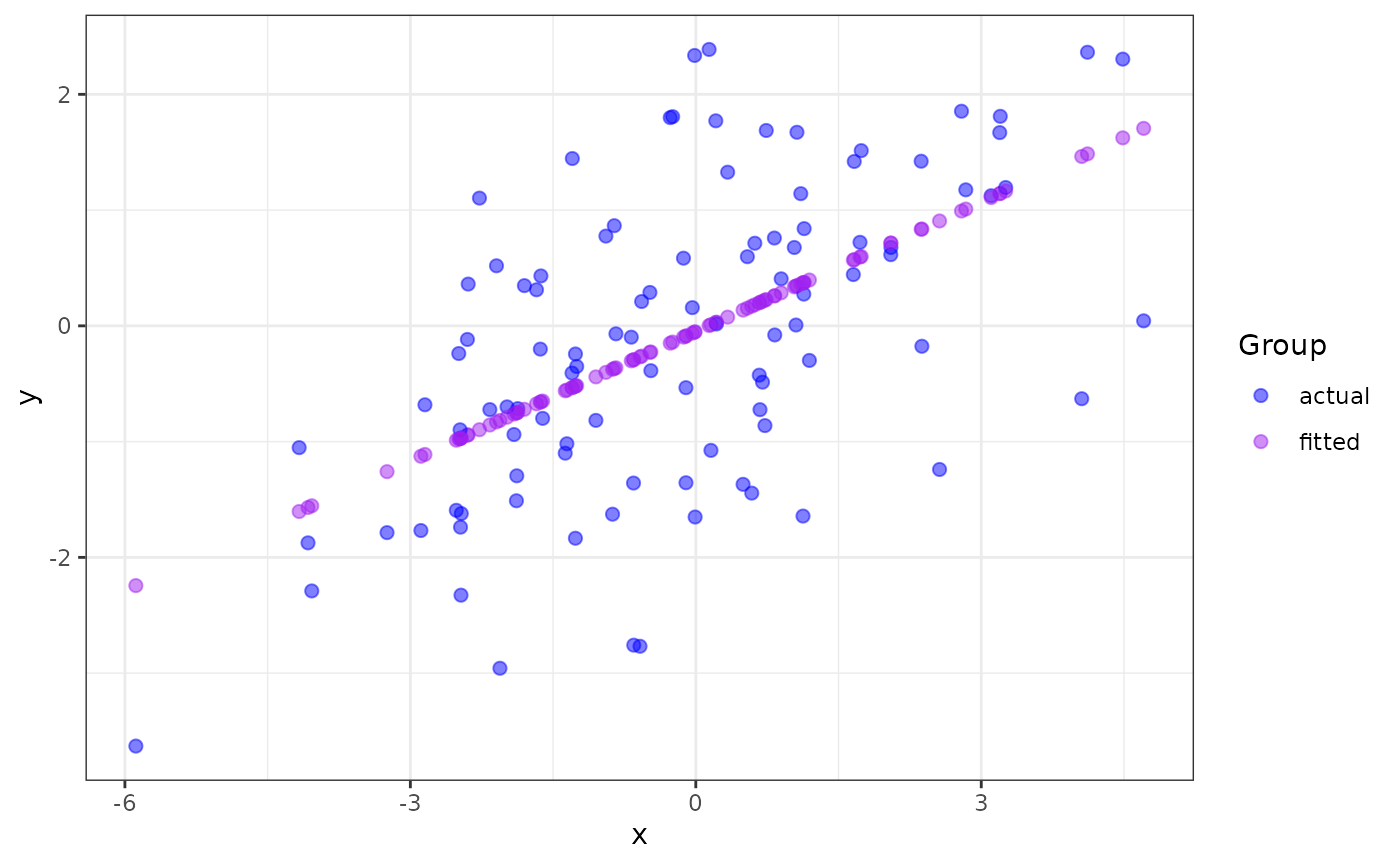
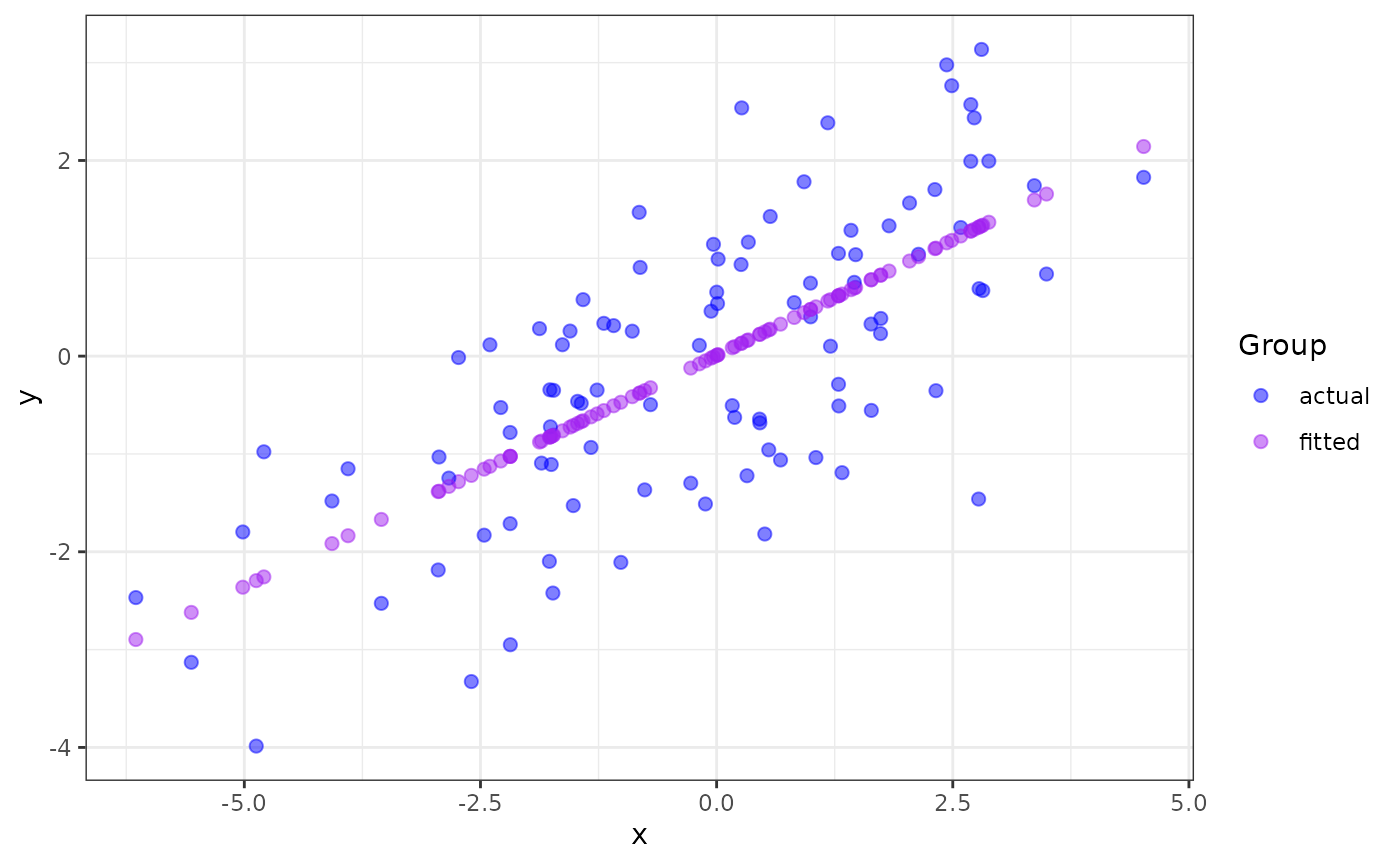
Built site for ggmatplot: 0.1.1@e69bdc0

diff --git a/articles/ggmatplot.html b/articles/ggmatplot.html
@@ -103,7 +103,7 @@
 <span class="va">x</span> <span class="op">&lt;-</span> <span class="fu"><a href="https://rdrr.io/r/base/c.html" class="external-link">c</a></span><span class="op">(</span><span class="fu"><a href="https://rdrr.io/r/stats/Normal.html" class="external-link">rnorm</a></span><span class="op">(</span><span class="fl">100</span>, sd <span class="op">=</span> <span class="fl">2</span><span class="op">)</span><span class="op">)</span>
 
 <span class="fu"><a href="https://rdrr.io/r/utils/head.html" class="external-link">head</a></span><span class="op">(</span><span class="va">x</span><span class="op">)</span>
-<span class="co">#&gt; [1]  0.6669044  2.0506636 -0.8751025  0.2101028  1.1265714  0.1590892</span>
+<span class="co">#&gt; [1]  2.5844771 -1.8543894  0.9949943  2.3106550  0.1655206 -2.2852728</span>
 
 <span class="co"># matrix z</span>
 <span class="va">y</span> <span class="op">&lt;-</span> <span class="va">x</span> <span class="op">*</span> <span class="fl">0.5</span> <span class="op">+</span> <span class="fu"><a href="https://rdrr.io/r/stats/Normal.html" class="external-link">rnorm</a></span><span class="op">(</span><span class="fl">100</span>, sd <span class="op">=</span> <span class="fl">1</span><span class="op">)</span>
@@ -113,12 +113,12 @@
 
 <span class="fu"><a href="https://rdrr.io/r/utils/head.html" class="external-link">head</a></span><span class="op">(</span><span class="va">z</span><span class="op">)</span>
 <span class="co">#&gt;       actual      fitted</span>
-<span class="co">#&gt; 1 -0.4259083  0.19942262</span>
-<span class="co">#&gt; 2  0.6771384  0.71543376</span>
-<span class="co">#&gt; 3 -1.6270636 -0.37559993</span>
-<span class="co">#&gt; 4  1.7712603  0.02907889</span>
-<span class="co">#&gt; 5 -1.6431636  0.37083491</span>
-<span class="co">#&gt; 6 -1.0756780  0.01005566</span></code></pre></div>
+<span class="co">#&gt; 1  1.3147475  1.22821462</span>
+<span class="co">#&gt; 2 -1.0935233 -0.86852629</span>
+<span class="co">#&gt; 3  0.4017220  0.47740725</span>
+<span class="co">#&gt; 4  1.7026683  1.09887212</span>
+<span class="co">#&gt; 5 -0.5055525  0.08559745</span>
+<span class="co">#&gt; 6 -0.5254892 -1.07205816</span></code></pre></div>
 <p><code>ggmatplot</code> plots vector <code>x</code> against each column of matrix <code>z</code> using the default <code>plot_type = "point"</code>. This will be represented on the resulting plot as two groups, identified using different shapes and colors.</p>
 <div class="sourceCode" id="cb2"><pre class="downlit sourceCode r">
 <code class="sourceCode R"><span class="kw"><a href="https://rdrr.io/r/base/library.html" class="external-link">library</a></span><span class="op">(</span><span class="va"><a href="https://github.com/xuan-liang/ggmatplot" class="external-link">ggmatplot</a></span><span class="op">)</span>

diff --git a/reference/ggmatplot.html b/reference/ggmatplot.html
@@ -71,9 +71,10 @@ or data frames against each other using
 
     <div id="ref-usage">
     <div class="sourceCode"><pre class="sourceCode r"><code><span class="fu">ggmatplot</span><span class="op">(</span>
-  <span class="va">x</span>,
-  <span class="va">y</span>,
-  plot_type <span class="op">=</span> <span class="st">"point"</span>,
+  x <span class="op">=</span> <span class="cn">NULL</span>,
+  y <span class="op">=</span> <span class="cn">NULL</span>,
+  plot_type <span class="op">=</span> <span class="fu"><a href="https://rdrr.io/r/base/c.html" class="external-link">c</a></span><span class="op">(</span><span class="st">"point"</span>, <span class="st">"line"</span>, <span class="st">"both"</span>, <span class="st">"density"</span>, <span class="st">"histogram"</span>, <span class="st">"boxplot"</span>, <span class="st">"dotplot"</span>,
+    <span class="st">"errorplot"</span>, <span class="st">"violin"</span>, <span class="st">"ecdf"</span><span class="op">)</span>,
   color <span class="op">=</span> <span class="cn">NULL</span>,
   fill <span class="op">=</span> <span class="cn">NULL</span>,
   shape <span class="op">=</span> <span class="cn">NULL</span>,
